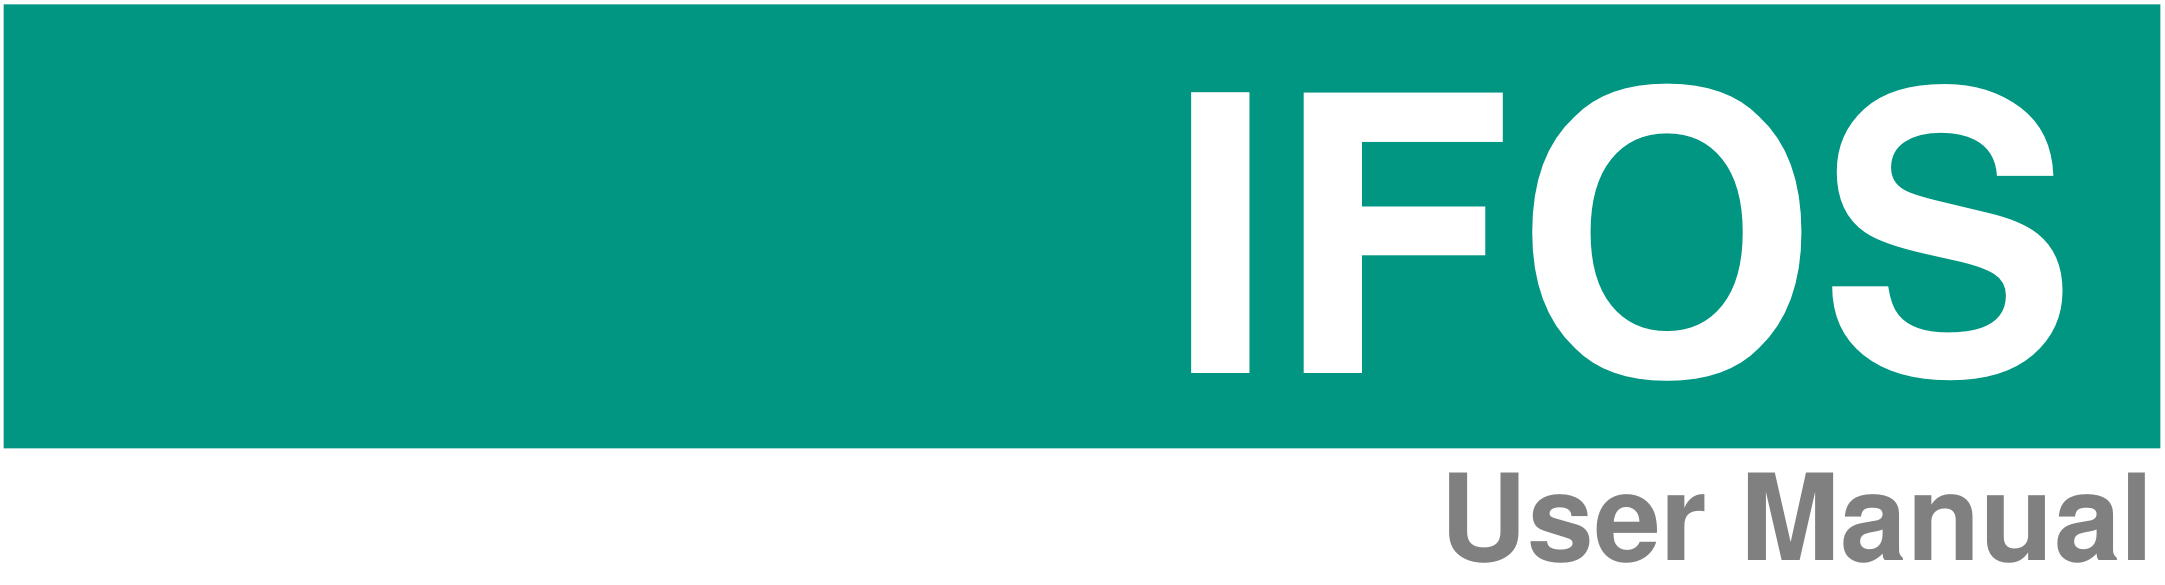
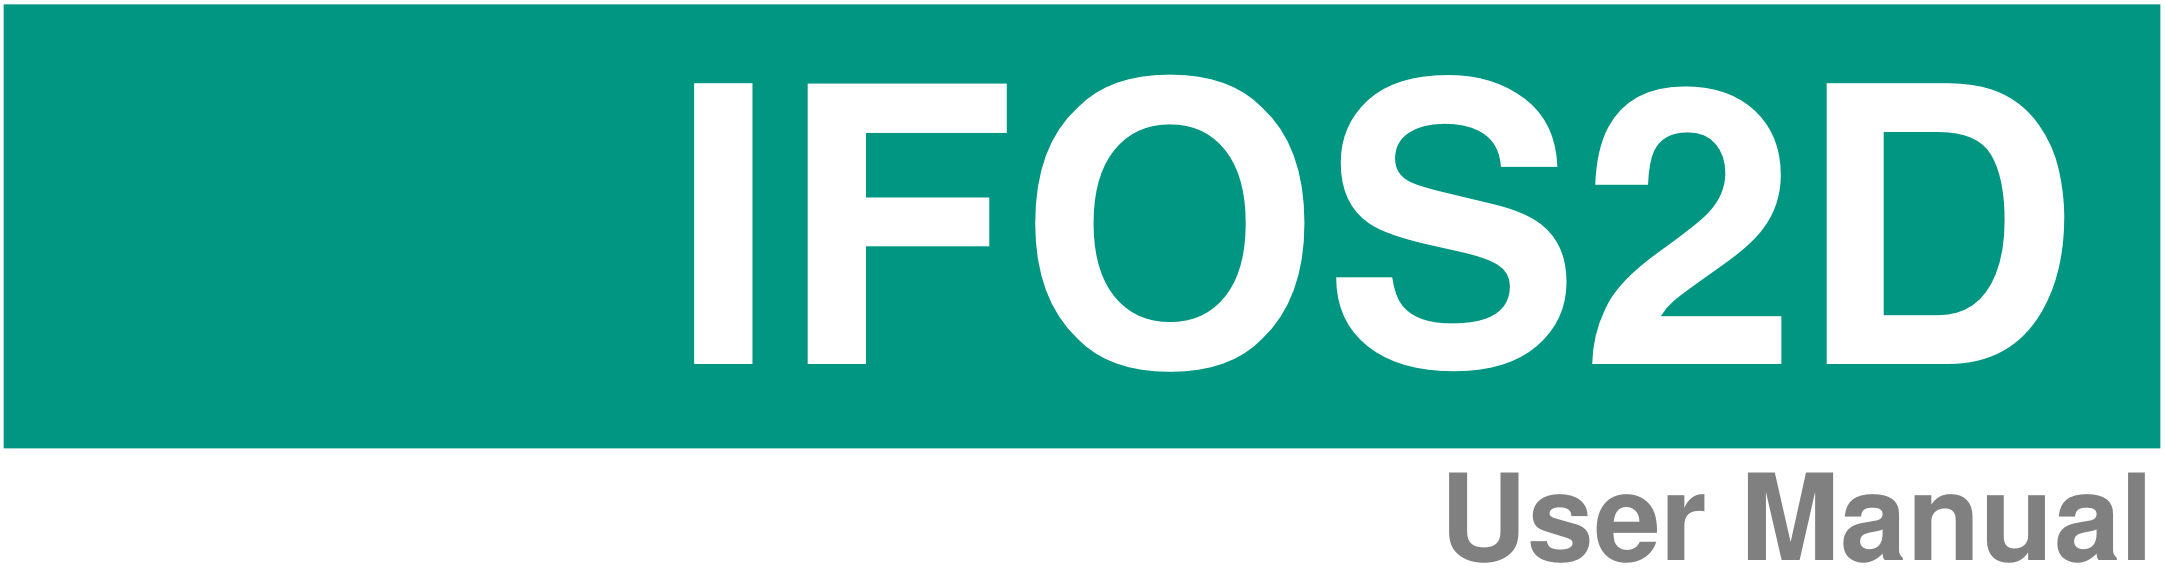
IFOS -> IFOS2D
! IFOS -> IFOS2D !
- New make targes is IFOS2D
- Generated binary is IFOS2D

Adding 2D to IFOS to indicate, that it is our 2D FWI Code.

Changed region(s): [[0.3095, 0.1231, 0.9594, 0.6462]]

diff --git a/doc/latex/0_Title.tex b/doc/latex/0_Title.tex
@@ -98,6 +98,5 @@
 % \begin{center}
 % \includegraphics[width=0.18\textwidth]{CAU_Siegel.png}
 % \hspace{2cm}
-\includegraphics[width=0.25\textwidth]{Kitlogo_en_cmyk.pdf}
 \end{center}
 \rmfamily

diff --git a/README.md b/README.md
@@ -1,12 +1,12 @@
-# What is IFOS?
+# What is IFOS2D?
 
-IFOS (Inversion of Full observed seismograms) is a 2D elastic full waveform inversion code.  
+IFOS2D (Inversion of Full observed seismograms) is a 2D elastic full waveform inversion code.  
 The inversion problem is solved by a conjugate gradient method and the gradients are computed in the time domain with the adjoint method.  
-The forward modeling is done by a time domain finite difference scheme. The manual is included in the download archive or can be downloaded [here](https://git.scc.kit.edu/GPIAG-Software/IFOS/wikis/home)
+The forward modeling is done by a time domain finite difference scheme. The manual is included in the download archive or can be downloaded [here](https://git.scc.kit.edu/GPIAG-Software/IFOS2D/wikis/home)
 
 # Download and Newsletter
 
-You can Download the [latest Release](https://git.scc.kit.edu/GPIAG-Software/IFOS/tree/Release) or the current [Beta-Version](https://git.scc.kit.edu/GPIAG-Software/IFOS/tree/master)
+You can Download the [latest Release](https://git.scc.kit.edu/GPIAG-Software/IFOS2D/tree/Release) or the current [Beta-Version](https://git.scc.kit.edu/GPIAG-Software/IFOS2D/tree/master)
 
 To receive news and updates please [register](http://www.gpi.kit.edu/Software-FWI.php) on the email list IFOS@lists.kit.edu.  
 Please use this list also to ask questions on using the software or to report problems or bugs.
